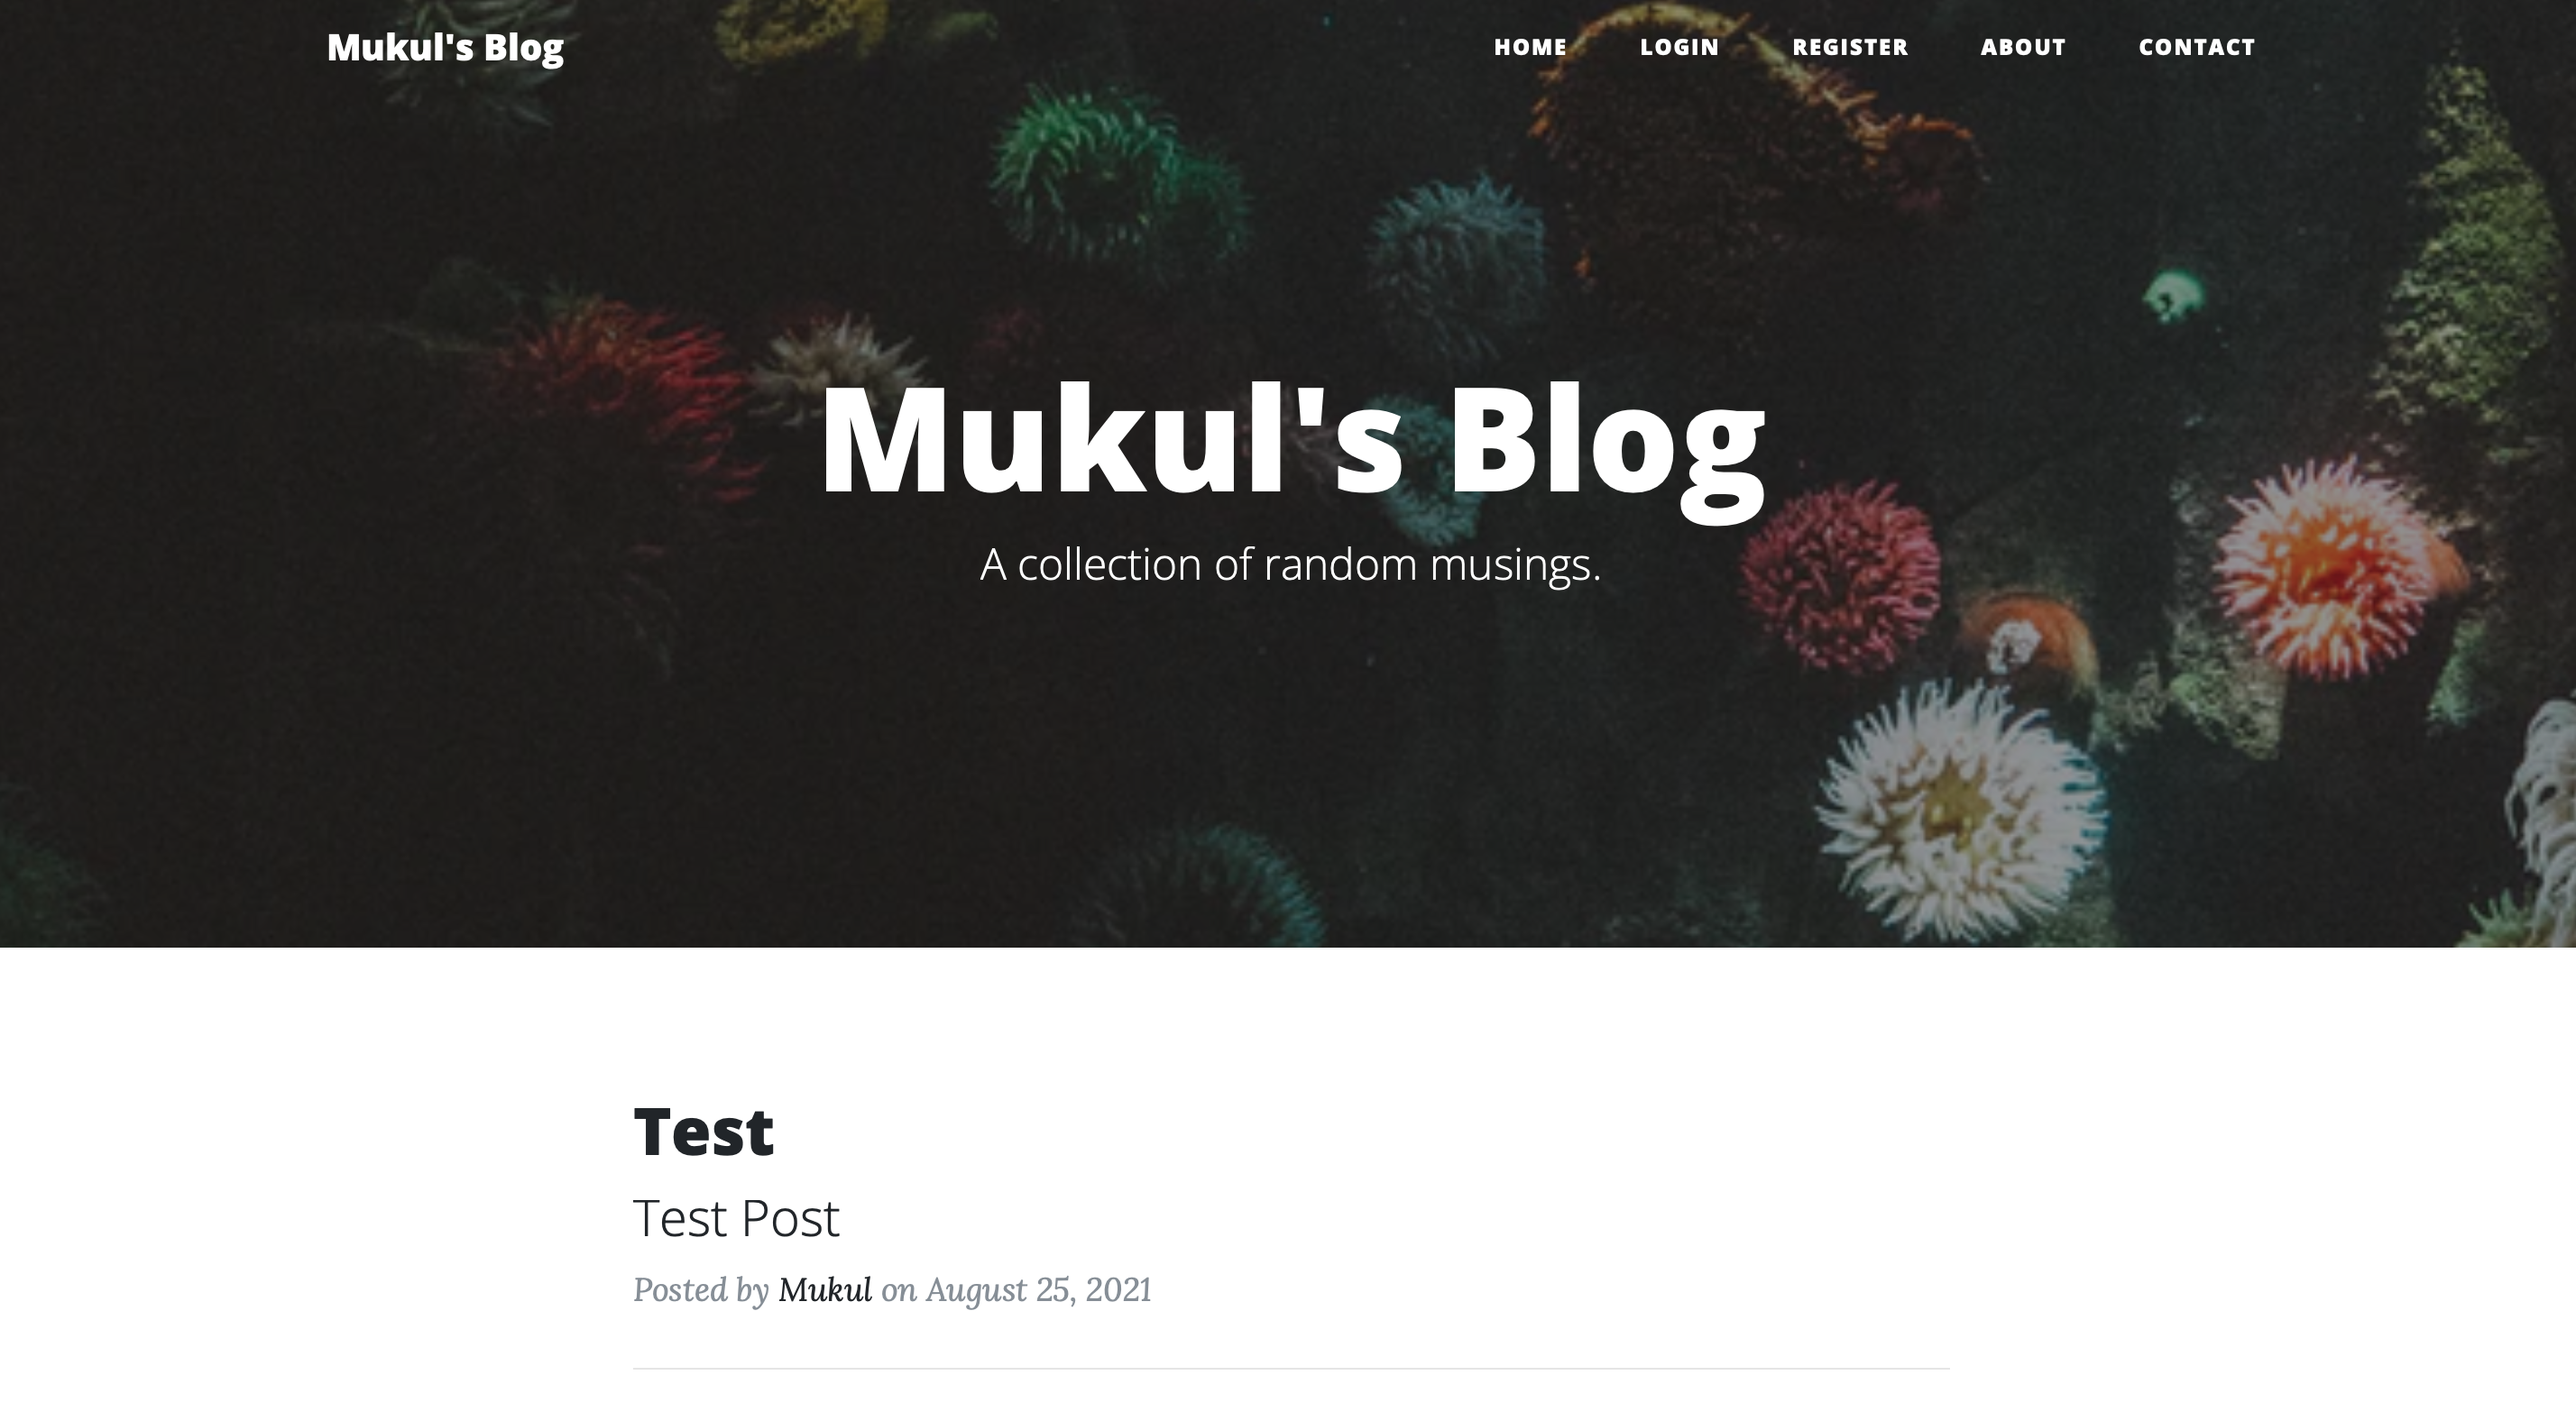
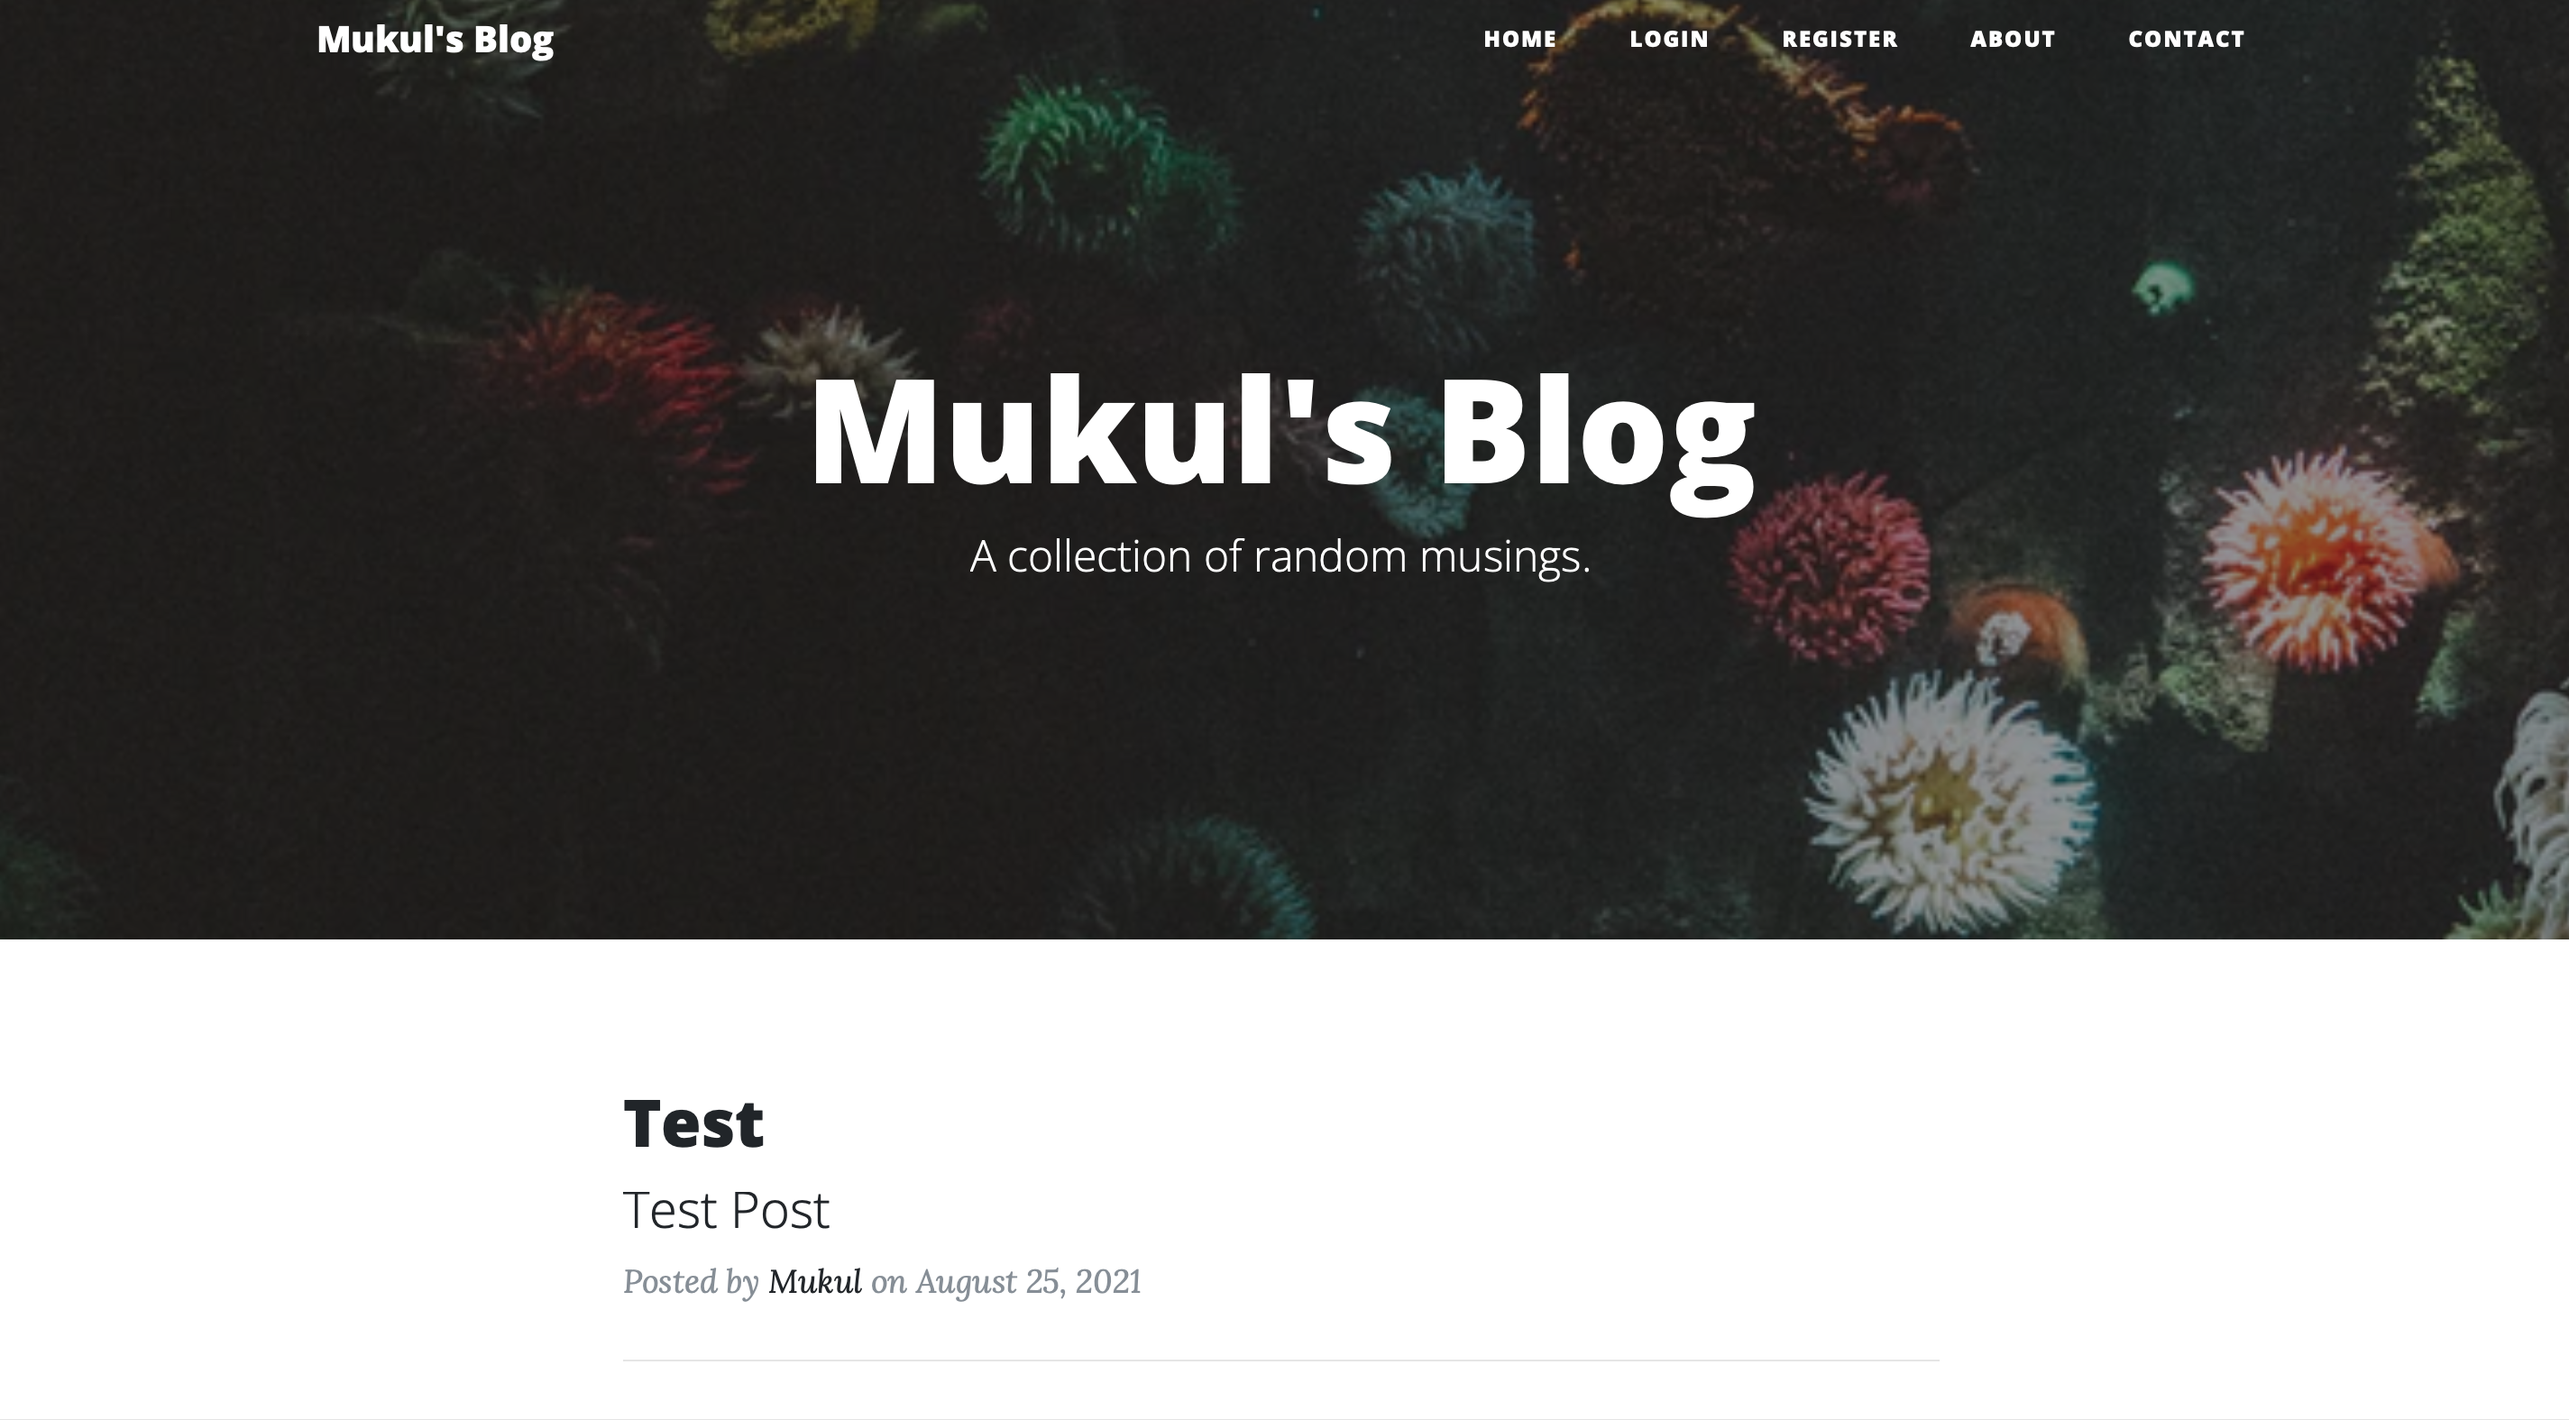
update

diff --git a/static/css/styles.css b/static/css/styles.css
@@ -87,40 +87,32 @@ header.masthead .overlay {
   opacity: 0;
 }
 
-header.masthead .page-heading,
-header.masthead .post-heading,
 header.masthead .site-heading {
   padding: 200px 0 150px;
   color: #F4F9F9;
 }
 
 @media only screen and (min-width: 768px) {
-  header.masthead .page-heading,
-  header.masthead .post-heading,
   header.masthead .site-heading {
     padding: 200px 0;
   }
 }
 
-header.masthead .page-heading,
 header.masthead .site-heading {
   text-align: center;
   overflow: hidden;
 }
 
-header.masthead .page-heading::-webkit-scrollbar,
 header.masthead .site-heading::-webkit-scrollbar {
     display: none;
 }
 
-header.masthead .page-heading h1,
 header.masthead .site-heading h1 {
   font-family: 'Hind Madurai', sans-serif;
   font-size: 100px;
   margin-top: 0;
 }
 
-header.masthead .page-heading .subheading,
 header.masthead .site-heading .subheading {
   font-size: 20px;
   font-weight: 300;
@@ -171,6 +163,7 @@ header.masthead .site-heading .subheading {
 
 #projects > h2 {
     font-family: 'Hind Madurai', sans-serif;
+    overflow: hidden;
 }
 
 #projects .container > div.row > div {
@@ -179,15 +172,13 @@ header.masthead .site-heading .subheading {
     font-size: 20px;
 }
 
-#projects .container > div.row > img {
+#projects .container > div.row > div.colm > img {
     position: relative;
-    border-radius: 100%;
-    height: 10%;
-    max-width: 5%;
-    opacity: 0.8;
+    height: auto;
     margin-left: auto;
     margin-right: auto;
-    width: 50%;
+    width: 100%;
+    object-fit: contain;
 }
 
 /*Footer*/
@@ -198,10 +189,10 @@ header.masthead .site-heading .subheading {
 }
 
 #footer i {
-  color: #222831;
+  color: #F4F9F9;
   font-size: 2rem;
   padding: 1.5rem;
-  opacity: 0.8;
+  opacity: 0.5;
 }
 
 #footer i:hover {
@@ -232,6 +223,7 @@ header.masthead .site-heading .subheading {
 #research > h2 {
     font-family: 'Hind Madurai', sans-serif;
     color: #F4F9F9;
+    overflow: hidden;
 }
 
 #research .container > div.row > div {
@@ -282,6 +274,7 @@ li.point::before {
 
 #experience > h2 {
     font-family: 'Hind Madurai', sans-serif;
+    overflow: hidden;
 }
 
 #experience .container > div.row > div {

diff --git a/templates/projects.html b/templates/projects.html
@@ -4,14 +4,26 @@
         <h2> PROJECTS </h2>
         <div class="container">
             <div class="row">
-                <div class="col-lg-6">
-                    <img src="{{ url_for('static', filename='images/blog-img1.jpg') }}">
+                <div class="col-lg-6 colm">
+                    <img src="{{ url_for('static', filename='images/blog-img.jpg') }}">
                 </div>
                 <div class="col-lg-6">
                     <p>This is a fully functional webiste which can only be edited by the admin. People can register on
                     this website and put reviews on the admin's blogs.<br>
                         Integrated the functionality of <b>Flask, SQL, HTML, CSS, Bootstrap</b> and Heroku.<br>
                     Link: <a href="https://blog-learning-project.herokuapp.com">https://blog-learning-project.herokuapp.com</a></p>
+                </div>
+            </div>
+            <div class="row">
+                <div class="col-lg-6">
+                    <p>Built a website which uses Rest APIs to bring results. It uses all of the Search
+                    APIs and around half of the Other APIs from IMDb. <b>Flask, HTML, CSS, Bootstrap, Rest API,
+                        Git</b> and Heroku were used to bring out this website. <br>
+                    Link: <a href="https://imdb-api-search.herokuapp.com">https://imdb-api-search.herokuapp.com</a>
+                    </p>
+                </div>
+                <div class="col-lg-6 colm">
+                    <img src="{{ url_for('static', filename='images/imdb.jpg') }}">
                 </div>
             </div>
         </div>
